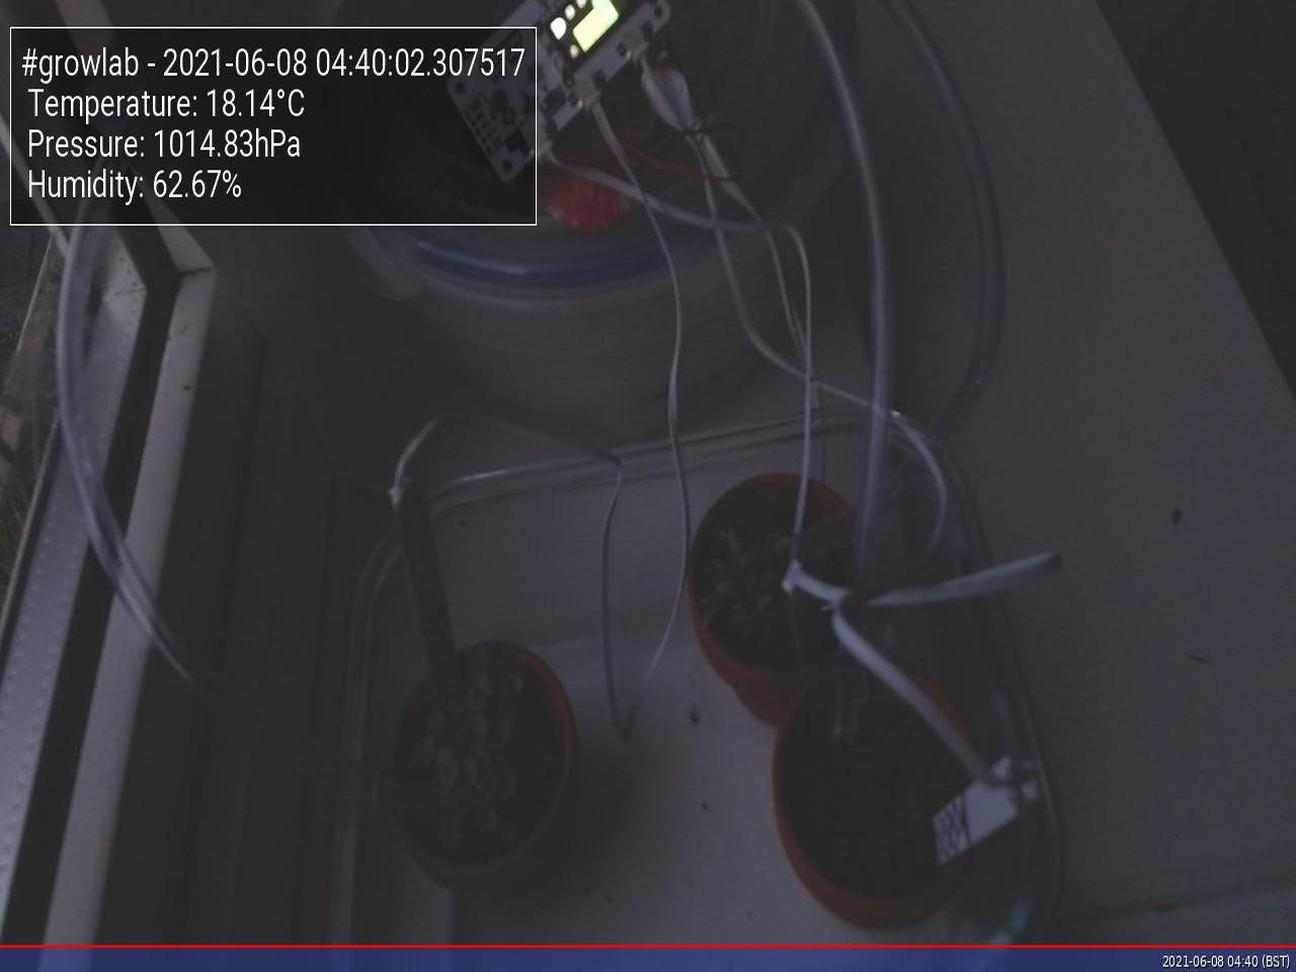
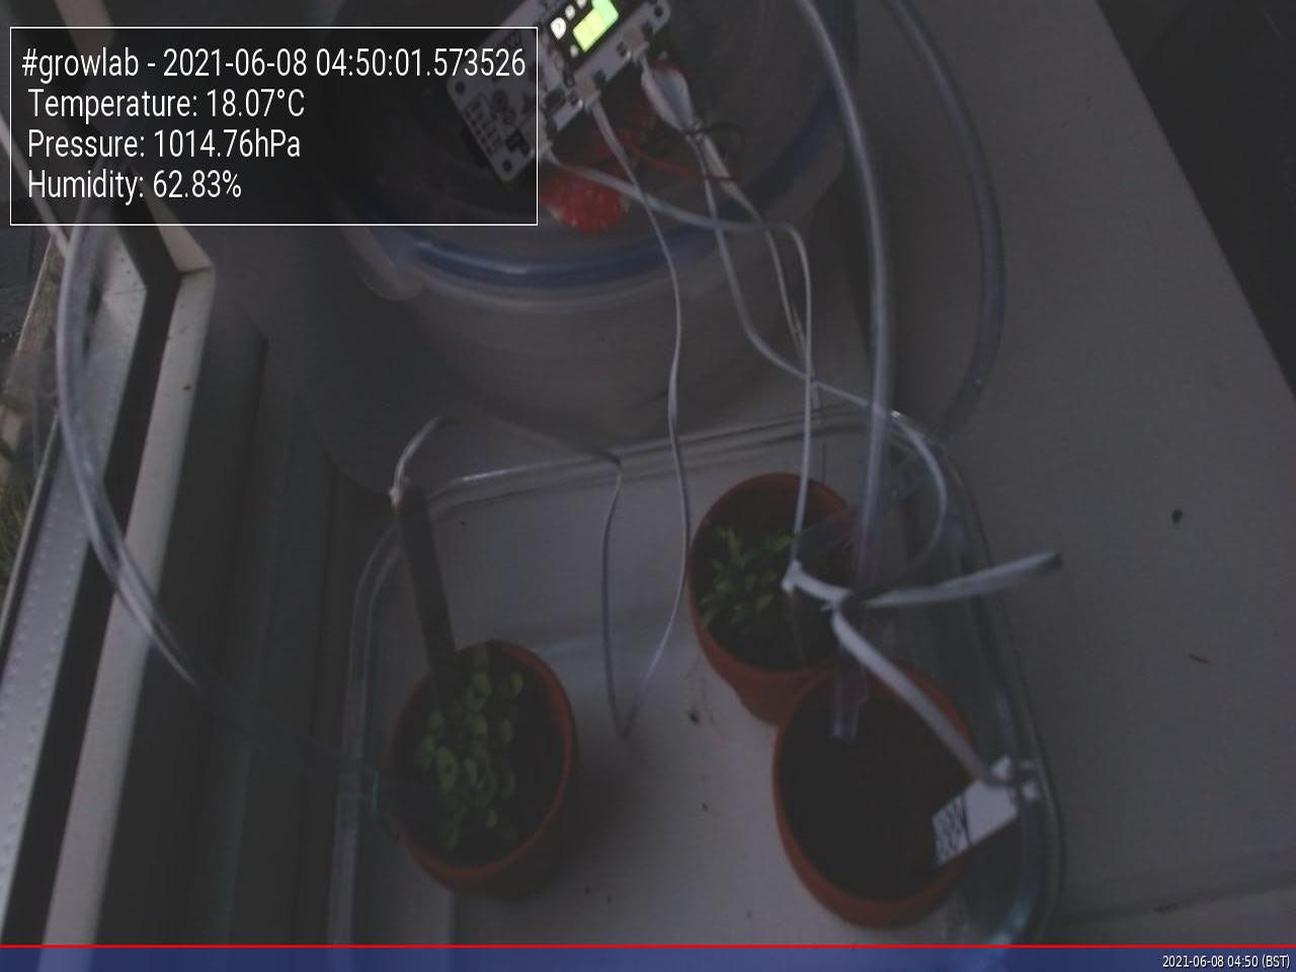
Update images at Tue  8 Jun 04:50:05 BST 2021

diff --git a/app/docs/index.html b/app/docs/index.html
@@ -47,19 +47,19 @@
                         <tbody>
                             <tr>
                                 <td>Time</td>
-                                <td>2021-06-08 04:40:02.307517</td>
+                                <td>2021-06-08 04:50:01.573526</td>
                             </tr>
                             <tr>
                                 <td>Temperature</td>
-                                <td>18.14°C</td>
+                                <td>18.07°C</td>
                             </tr>
                             <tr>
                                 <td>Humidity</td>
-                                <td>62.67%</td>
+                                <td>62.83%</td>
                             </tr>
                             <tr>
                                 <td>Pressure</td>
-                                <td>1014.83hPa</td>
+                                <td>1014.76hPa</td>
                             </tr>
                         </tbody>
                     </table>
@@ -67,7 +67,7 @@
 
                 <h5>Latest image</h5>
                 <div style="width: 85%;">
-                            <img class="figure-img img-fluid rounded" src="./preview.jpg?uid=1623123606.1016734">
+                            <img class="figure-img img-fluid rounded" src="./preview.jpg?uid=1623124205.3246274">
                 </div>
             </div>
         </div>
